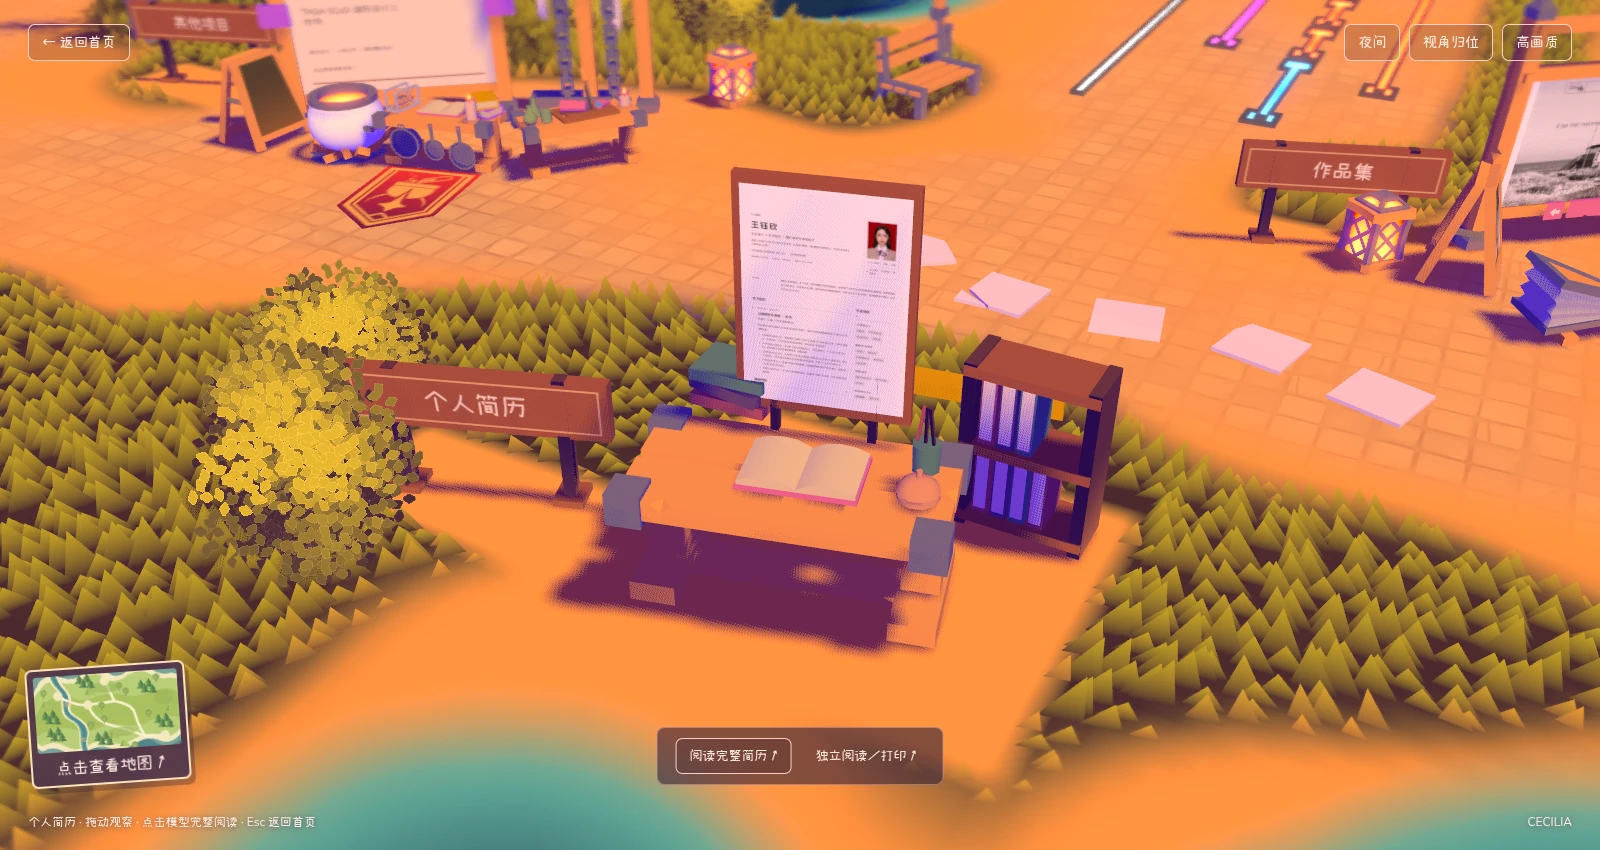
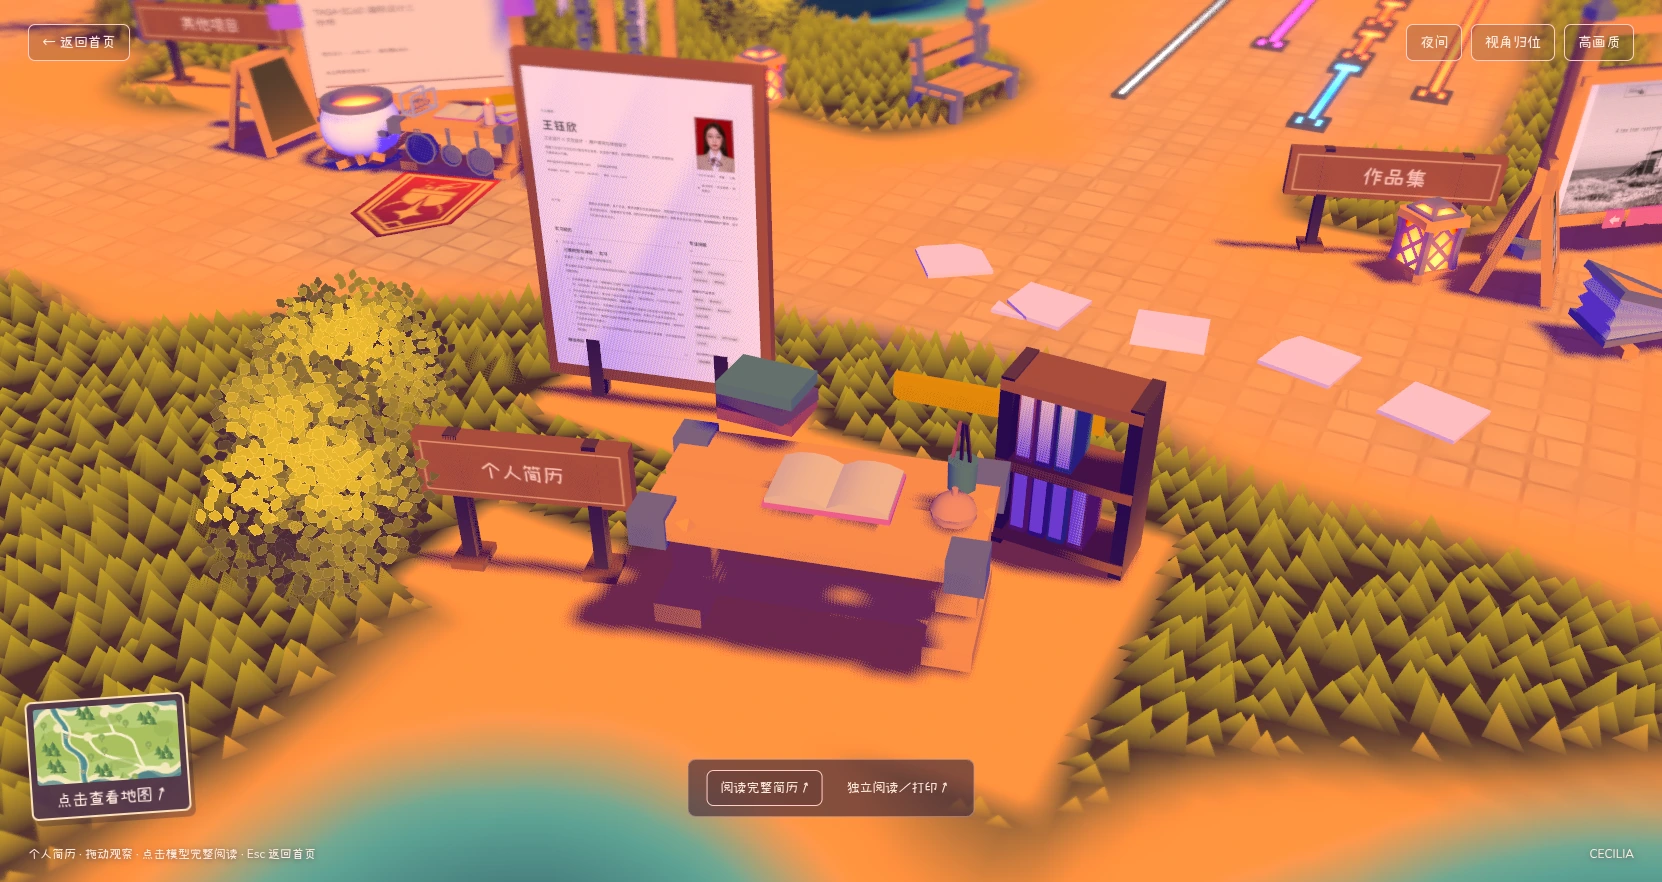
Calibrate screenshot cameras and plant separate resume board behind retained sign

diff --git a/experiments/bruno-projects/src/hub.js b/experiments/bruno-projects/src/hub.js
@@ -2,6 +2,7 @@ import { T, createWorld } from "./create-world.js";
 import { texture, uniform } from "three/tsl";
 import { createFixtures } from "./scene-fixtures.js";
 import { createWorldMap } from "./world-map.js";
+import { referenceViews } from "./scene-views.js";
 import { MeshDefaultMaterial } from "./bruno/Materials/MeshDefaultMaterial.js";
 import "../../../resume.js";
 
@@ -302,8 +303,13 @@ try {
   }
   const original = game.resources.areasModel.scene;
   const fixtures = createFixtures(world);
+  function referencePose(key){
+    const view=referenceViews[key],direction=new T.Vector3().setFromSpherical(new T.Spherical(1,view.pitch,view.yaw));
+    return {...view,focus:new T.Vector3(...view.position).addScaledVector(direction,-view.distance)};
+  }
   identity = fixtures.nameModel();
-  fixtures.reserveExisting(scene.getObjectByName("benchPhysicalDynamic001"));
+  const entranceBench=scene.getObjectByName("benchPhysicalDynamic001");
+  fixtures.parcel(entranceBench,40.6,37.15,1.6,{plaza:true,radius:0,precise:true,hull:true});
   const crates = fixtures.nativeCrates();
   let effectTime=0, mapFlashAt=-100;
   const mapBrightness=uniform(1);
@@ -317,7 +323,7 @@ try {
   const resumeTexture = await world.textures.loadAsync(world.asset("ui/resume-preview.webp"));
   resumeTexture.colorSpace=T.SRGBColorSpace;
   const resumeCorner = fixtures.resumeCorner(original,resumeTexture);
-  const resumePreview=resumeCorner.getObjectByName("resume-preview-board");
+  const resumePreview=scene.getObjectByName("resume-preview-board");
   const project = original.getObjectByName("projects").clone(true);
   for (const child of [...project.children])
     if (
@@ -377,7 +383,7 @@ try {
     const child=landing.getObjectByName(name); if(child)kioskRoot.attach(child);
   }
   fixtures.levelKiosk(kioskRoot,kioskRoot.getObjectByName("physicalFixed009"),kioskFace);
-  fixtures.parcel(kioskRoot,42,31.5,2,{plaza:true,radius:1,precise:true,supportName:"physicalFixed009"});
+  fixtures.parcel(kioskRoot,42.89033170249464,33.57996186497684,2.022352518678825,{plaza:true,radius:0,precise:true,supportName:"physicalFixed009",ignoreReservations:["benchPhysicalDynamic001"]});
   const welcome = fixtures.welcomeSign();
   const pixelHand=fixtures.pixelPointer(mapBrightness);
   if(kioskFace){
@@ -401,8 +407,10 @@ try {
     const size = box.getSize(new T.Vector3());
     const label = fixtures.sign(
       title,
-      focus.x - size.x * 0.5 - 1.2,
-      focus.z + 1.2,
+      key==="resume"?22.35:key==="contact"?55:focus.x - size.x * 0.5 - 1.2,
+      key==="resume"?25.9:key==="contact"?46.5:focus.z + 1.2,
+      key==="resume"?2.5:3.4,
+      key==="resume"||key==="contact"?{plaza:true,radius:0,precise:true,hull:true}:{},
     );
     const focusWithLabel = focus.clone();
     focusWithLabel.y += 1;
@@ -415,9 +423,7 @@ try {
   station("contact", social, "联系方式", 12);
   Object.assign(stations.get("resume"),{focus:new T.Vector3(25.4,1.8,24.3),distance:15,yaw:.5,pitch:.99});
   Object.assign(stations.get("other"),{distance:16,yaw:.55,pitch:1.18});
-  Object.assign(stations.get("contact"),{distance:12.5,yaw:.35,pitch:1.1,fov:34});
-  // Include the freestanding wood sign, rather than centering only the mailbox.
-  stations.get("contact").focus.add(new T.Vector3(-1.3,-.6,0));
+  Object.assign(stations.get("contact"),referencePose("contact"));
   const landingBounds = new T.Box3().setFromObject(identity);
   for (const root of devices.roots) landingBounds.union(new T.Box3().setFromObject(root));
   // Match the upstream landing's focus behind the letters, adapted to our
@@ -433,10 +439,12 @@ try {
       landingPoints.push(new T.Vector3(x,y,z).applyMatrix4(mesh.matrixWorld));
   });
   function fitLanding() {
+    const calibrated=referencePose("home");
+    if(innerWidth>=1000)return calibrated;
     const aspect = innerWidth / innerHeight,
       fov = innerWidth < 700 ? 40 : 25;
     const vertical = Math.tan(T.MathUtils.degToRad(fov / 2));
-    const yaw = .55, pitch = 1.02;
+    const {yaw,pitch}=calibrated;
     const forward = new T.Vector3().setFromSpherical(new T.Spherical(1, pitch, yaw));
     const right = new T.Vector3().crossVectors(new T.Vector3(0, 1, 0), forward).normalize();
     const up = new T.Vector3().crossVectors(forward, right).normalize();
@@ -446,7 +454,7 @@ try {
       distance = Math.max(distance, near + Math.abs(v.dot(right)) / (vertical * aspect * .85), near + Math.abs(v.dot(up)) / (vertical * .8));
     }
     return {
-      focus: landingCenter.clone(),
+      focus: calibrated.focus.clone(),
       distance,
       yaw,
       pitch,
@@ -719,6 +727,30 @@ try {
     openCurrent,
     selectOther,
     pick,
+    geometryContacts(a,b){
+      const collect=root=>{const list=[];root.traverse(m=>{if(m.isMesh&&!m.isInstancedMesh)list.push(m);});return list;};
+      const first=collect(a),second=collect(b),probe=new T.Raycaster(),contacts=[];
+      function edges(source,target){
+        const box=new T.Box3().setFromObject(target,true),p=source.geometry.attributes.position,index=source.geometry.index;
+        const count=index?index.count:p.count;
+        for(let i=0;i<count;i+=3){
+          const points=[0,1,2].map(j=>new T.Vector3().fromBufferAttribute(p,index?index.getX(i+j):i+j).applyMatrix4(source.matrixWorld));
+          if(!new T.Box3().setFromPoints(points).intersectsBox(box))continue;
+          for(let j=0;j<3;j++){
+            const from=points[j],delta=points[(j+1)%3].clone().sub(from),length=delta.length();
+            if(length<.002)continue;
+            probe.set(from,delta.normalize());probe.near=.001;probe.far=length-.001;
+            const hit=probe.intersectObject(target,false)[0];
+            if(hit){contacts.push({a:source.name,b:target.name,point:hit.point.toArray()});return;}
+          }
+        }
+      }
+      for(const x of first)for(const y of second){
+        if(!new T.Box3().setFromObject(x,true).intersectsBox(new T.Box3().setFromObject(y,true)))continue;
+        edges(x,y);edges(y,x);
+      }
+      return contacts;
+    },
   };
 } catch (error) {
   fail(error);

diff --git a/experiments/bruno-projects/src/scene-fixtures.js b/experiments/bruno-projects/src/scene-fixtures.js
@@ -79,6 +79,7 @@ export function createFixtures(world) {
           pz = z + dz;
         if (
           reserved.some(r => {
+            if(options.ignoreReservations?.includes(r.name))return false;
             if(hull&&r.hull)return overlaps(hull.map(p=>[p[0]+px,p[1]+pz]),r.hull);
             if (Math.abs(px-r.x) >= (width+r.width)/2+.4 || Math.abs(pz-r.z) >= (depth+r.depth)/2+.4) return false;
             if (!r.oriented) return true;
@@ -119,7 +120,7 @@ export function createFixtures(world) {
     surface.clearGrass(best.x, best.z, width + 0.6, depth + 0.6);
     root.userData.parcel = best;
     placements.push({ name: root.name, ...best });
-    if (options.reserve !== false) reserved.push({ ...best, oriented:options.oriented,hull:hull?.map(p=>[p[0]+best.x,p[1]+best.z]) });
+    if (options.reserve !== false) reserved.push({ ...best,name:root.name, oriented:options.oriented,hull:hull?.map(p=>[p[0]+best.x,p[1]+best.z]) });
     return root;
   }
   function print(
@@ -156,7 +157,7 @@ export function createFixtures(world) {
       material({ colorNode: texture(tex).rgb, alphaNode:bg?undefined:texture(tex).a, transparent:!bg, hasWater: false }),
     );
   }
-  function sign(text, x, z, width = 3.4) {
+  function sign(text, x, z, width = 3.4,options={}) {
     const root = new T.Group();
     root.name = "wood-sign-" + text;
     for (const px of [-width * 0.32, width * 0.32]) {
@@ -168,7 +169,7 @@ export function createFixtures(world) {
     face.position.set(0, 1.38, 0.1);
     root.add(face);
     root.rotation.y = 0.35;
-    parcel(root, x, z);
+    parcel(root, x, z,1,options);
     return root;
   }
   function books(parent, x, y, z, count = 3, standing = false) {
@@ -243,37 +244,25 @@ export function createFixtures(world) {
       );
       pen.rotation.z = (i - 1) * 0.14;
     }
+    parcel(root, 26, 24,1,{precise:true,hull:true});
     if(previewTexture){
       const stand=new T.Group();stand.name="resume-preview-board";
-      // The native table mesh also includes raised props. Sample the actual
-      // surface beneath both support posts, not its highest bounding-box point.
-      const supportRay=new T.Raycaster();let support,score=Infinity;
-      for(let dz=-1.5;dz<=1.5;dz+=.1)for(let dx=-1.5;dx<=1.5;dx+=.1){
-        const x=-.45+dx,z=-.1+dz,heights=[];
-        for(const offset of [-.58,.58]){
-          const foot=new T.Vector3(offset,0,0).applyAxisAngle(new T.Vector3(0,1,0),.25).add(new T.Vector3(x,deskBox.max.y+1,z));
-          supportRay.set(foot,new T.Vector3(0,-1,0));
-          const hit=supportRay.intersectObject(desk,true)[0];
-          if(hit&&hit.point.y>deskBox.max.y*.5)heights.push(hit.point.y);
-        }
-        if(heights.length===2&&Math.abs(heights[0]-heights[1])<.025&&dx*dx+dz*dz<score){
-          support={x,z,heights};score=dx*dx+dz*dz;
-        }
-      }
-      if(!support)throw new Error("简历预览板未找到两脚均可支撑的桌面");
-      const supportHeights=support.heights,tabletop=Math.max(...supportHeights);
-      stand.position.set(support.x,tabletop,support.z);
-      stand.userData.supportY=tabletop;
-      stand.userData.supportGaps=supportHeights.map(y=>tabletop-y);
       stand.rotation.y=.25;
-      for(const x of [-.58,.58])box(stand,[.10,.85,.12],[x,.425,0],"edge");
-      box(stand,[2.05,2.88,.12],[0,1.75,0],"wood");
+      // Independent planted posts, not a table attachment. The page starts
+      // above the small sign; all foliage is cleared from the board's volume.
+      for(const x of [-.58,.58])box(stand,[.12,.6,.16],[x,.3,0],"edge");
+      box(stand,[2.05,2.88,.12],[0,1.65,0],"wood");
       const page=new T.Mesh(new T.PlaneGeometry(1.87,2.645),material({colorNode:texture(previewTexture).rgb,hasWater:false}));
-      page.name="actual-resume-first-page";page.position.set(0,1.75,.068);stand.add(page);
+      page.name="actual-resume-first-page";page.position.set(0,1.65,.068);stand.add(page);
       stand.userData.document="resume.html?document=1";stand.userData.preview="ui/resume-preview.webp";
-      root.add(stand);
+      parcel(stand,21.5,22.1,1.6,{precise:true,radius:0,hull:true});
+      stand.position.y-=.075;
+      stand.userData.support="planted-ground";
+      stand.userData.insertionDepth=.06;
+      stand.updateWorldMatrix(true,true);
+      stand.userData.parcel.groundedY=new T.Box3().setFromObject(stand,true).min.y;
+      Object.assign(placements.find(p=>p.name===stand.name),{groundedY:stand.userData.parcel.groundedY,planted:true});
     }
-    parcel(root, 26, 24,1,{precise:true});
     return root;
   }
   function contactCorner(original) {
@@ -404,7 +393,7 @@ export function createFixtures(world) {
   function reserveExisting(root) {
     if (!root) return;
     const bounds = new T.Box3().setFromObject(root), center = bounds.getCenter(new T.Vector3()), size = bounds.getSize(new T.Vector3());
-    reserved.push({x:center.x,z:center.z,width:size.x,depth:size.z});
+    reserved.push({name:root.name,x:center.x,z:center.z,width:size.x,depth:size.z});
   }
   function welcomeSign() {
     const native = scene.getObjectByName("fencePhysicalDynamic005");
@@ -419,7 +408,7 @@ export function createFixtures(world) {
       root.add(label);
     }
     root.rotation.set(0,.28,0);
-    parcel(root,48.6,32.3,1.65,{plaza:true,radius:0,precise:true});
+    parcel(root,48,34.56,1.65,{plaza:true,radius:0,precise:true,ignoreReservations:["enlarged-native-map-kiosk"]});
     root.userData.text="Welcome to Cecilia’s world.";
     return root;
   }

diff --git a/experiments/bruno-projects/src/scene-views.js b/experiments/bruno-projects/src/scene-views.js
@@ -1,0 +1,7 @@
+// Camera extrinsics recovered from the user's Frame 1 / Frame 2 screenshots.
+// Reference content viewport: 1662 x 882 (the browser toolbar is excluded).
+// Never replace these angles with a generic category camera or an automatic orbit.
+export const referenceViews = {
+  home: { position:[58.09041346313593,9.743463509428947,53.84272520004712],yaw:.8231748736701113,pitch:1.2176592998276086,distance:24,fov:25 },
+  contact: { position:[52.1178263614629,4.532282986070333,57.4180753050418],yaw:-.09252641051502589,pitch:1.3000239509541858,distance:14,fov:34 },
+};

diff --git a/experiments/bruno-projects/README.md b/experiments/bruno-projects/README.md
@@ -40,3 +40,9 @@
 简历桌后新增可直接点击的竖向木框预览，`public/ui/resume-preview.webp` 是原有 `resume.html?document=1` 的 A4 第一页浏览器打印缩略图。正文、打印样式及作品文件不修改；更新简历内容时应同步刷新这张缩略图。其他项目采用正面较低镜头；联系方式整体搬至入口岸边，朝向镜头，不复制旧路灯，地图联系方式标记与支路同步调整。
 
 `node tests/figma-revisions.cjs` 检查分类镜头、简历板直接点击与归位；`node tests/visible-support.cjs` 核验地图牌两脚、手柄真实顶点落地；`node tests/landing-controls.cjs` 检查中键平移、左键旋转、设备灯光及精确归位。
+
+### 用户 ZIP 三图修正
+
+`scene-views.js` 保存从用户 Frame 1、Frame 2 反算的镜头，而非分类通用视角。参考网页视口为1662×882（原截图顶端98px浏览器栏不属于网页）；桌面不再按包围盒重置角度或自动改变构图。窄屏只扩大取景范围，保留同一朝向。首页、返回首页、全局归位复用相同镜头。`tests/reference-layout.cjs` 用原截图上的桥、姓名和箱子测量点核验投影误差（阈值2.5px），并检查精确归位。
+
+地图牌、放大的长椅、欢迎牌按拼贴关系摆放，长椅与地图牌留出实体间隔。联系方式木牌在右侧，不留原来的左侧标题牌。大简历板已撤离桌面，作为独立模型插在左后方草地里；保留的小木牌位于前方，桌面与书本不作支撑，正文/字体/点击阅读保持不变。测试用三角形边与实体表面相交检查核验大板/桌子、大板/小牌、长椅/地图牌、欢迎牌/地图牌、长椅/三件设备及右侧木牌/剑，不只比较大包围盒或截图。代码中仅为地图牌与长椅的平面投影包围盒放行，实际实体仍必须通过空间相交回归。
